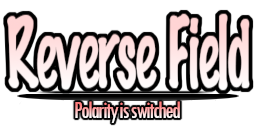
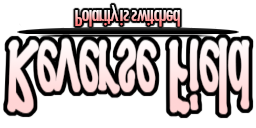
Added reverse field

diff --git a/src/main.cpp b/src/main.cpp
@@ -79,7 +79,7 @@ struct GameDataManager {
 }; // 0x58
 
 #define DISABLE_VANILLA
-#define FORCE_WEATHER CUSTOMWEATHER_MISSING_PURPLE_MIST
+//#define FORCE_WEATHER CUSTOMWEATHER_REVERSE_FIELD
 #define WEATHER_TIMER_MULTIPLIER 3
 #define MISSING_PURPLE_MIST_SMOOTHING_TIME 30
 
@@ -108,6 +108,17 @@ void deleteCharacter(SokuLib::CharacterManager *p)
 	SokuLib::Delete(p);
 }
 
+enum BlockResult {
+	BLOCKRESULT_HIT,
+	BLOCKRESULT_HIGH_RIGHTBLOCK,
+	BLOCKRESULT_HIGH_WRONGBLOCKBLOCK,
+	BLOCKRESULT_LOW_RIGHTBLOCK,
+	BLOCKRESULT_LOW_WRONGBLOCKBLOCK,
+	BLOCKRESULT_AIRBLOCK,
+	BLOCKRESULT_GUARDPOINT
+};
+
+static BlockResult (__thiscall *og_checkHit)(SokuLib::CharacterManager *, SokuLib::AttackFlags);
 static SokuLib::BattleManager *(SokuLib::BattleManager::*ogBattleMgrDestructor)(char unknown);
 static int (SokuLib::BattleManager::*ogBattleMgrOnMatchProcess)();
 static int (SokuLib::BattleManager::*ogBattleMgrOnProcess)();
@@ -256,7 +267,7 @@ const short weatherTimes[] {
 	999, // CUSTOMWEATHER_HAAR
 	999, // CUSTOMWEATHER_MISSING_PURPLE_MIST
 	10/* 999 */, // CUSTOMWEATHER_WATER_HAZE
-	10/* 999 */, // CUSTOMWEATHER_REVERSE_FIELD
+	999, // CUSTOMWEATHER_REVERSE_FIELD
 	10/* 999 */, // CUSTOMWEATHER_ILLUSION_MIST
 	10/* 100 */, // CUSTOMWEATHER_ETERNAL_NIGHT
 };
@@ -1084,16 +1095,6 @@ void __declspec(naked) checkCalm()
 
 const unsigned switchNormal = 0x47C5B3;
 
-enum BlockResult {
-	BLOCKRESULT_HIT,
-	BLOCKRESULT_HIGH_RIGHTBLOCK,
-	BLOCKRESULT_HIGH_WRONGBLOCKBLOCK,
-	BLOCKRESULT_LOW_RIGHTBLOCK,
-	BLOCKRESULT_LOW_WRONGBLOCKBLOCK,
-	BLOCKRESULT_AIRBLOCK,
-	BLOCKRESULT_GUARDPOINT
-};
-
 void __declspec(naked) onBlockHook()
 {
 	__asm {
@@ -1330,6 +1331,18 @@ void __fastcall ObjectHandler_SpawnBullet_hook(SokuLib::CharacterManager *This, 
 	}
 }
 
+BlockResult __fastcall checkHit(SokuLib::CharacterManager *This, int, SokuLib::AttackFlags attackFlags)
+{
+	if (This->effectiveWeather == CUSTOMWEATHER_REVERSE_FIELD) {
+		auto l = attackFlags.lowHit;
+
+		attackFlags.lowHit = attackFlags.midHit;
+		attackFlags.midHit = l;
+	}
+	return og_checkHit(This, attackFlags);
+}
+
+
 struct GiurollCallbacks {
 	unsigned (*saveState)();
 	void (*loadStatePre)(size_t frame, unsigned);
@@ -1396,6 +1409,7 @@ extern "C" __declspec(dllexport) bool Initialize(HMODULE hMyModule, HMODULE hPar
 	ogHudRender = (int (__thiscall *)(void *))SokuLib::TamperDword(0x85b544, onHudRender);
 	VirtualProtect((PVOID)RDATA_SECTION_OFFSET, RDATA_SECTION_SIZE, old, &old);
 	VirtualProtect((PVOID)TEXT_SECTION_OFFSET, TEXT_SECTION_SIZE, PAGE_EXECUTE_WRITECOPY, &old);
+	og_checkHit = reinterpret_cast<BlockResult (__thiscall *)(SokuLib::CharacterManager *, SokuLib::AttackFlags)>(SokuLib::TamperNearJmpOpr(0x47C5A9, checkHit));
 	SokuLib::TamperNearJmp(0x48247A, weatherTimer_hook);
 	SokuLib::TamperNearJmp(0x483DC2, handleSwitchWeather_hook);
 	memset((void *)0x441EE2, 0x90, 0x4421EE - 0x441EE2);
